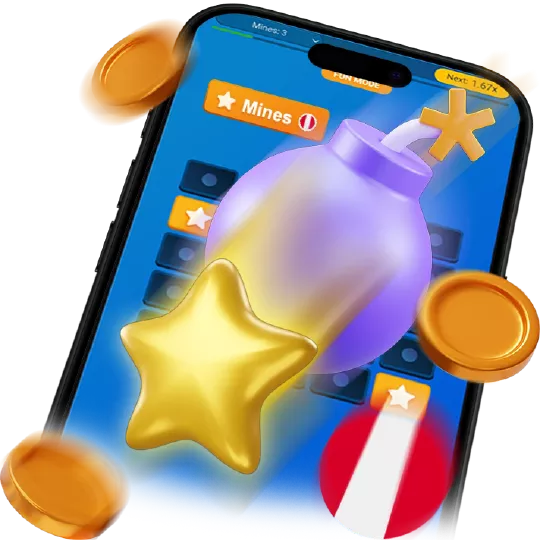
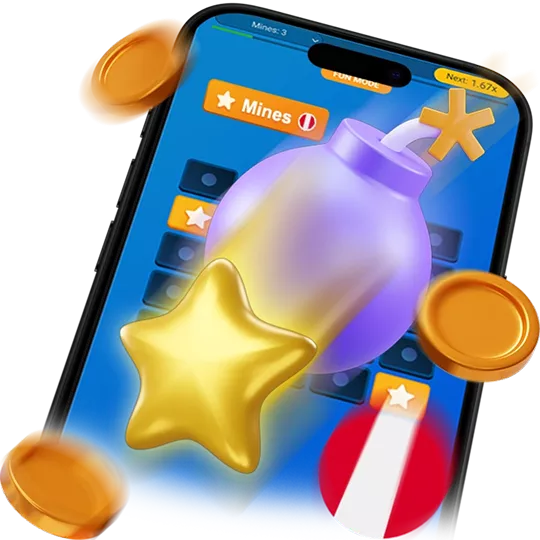
главная картинка

diff --git a/docs/home_mines.html b/docs/home_mines.html
@@ -250,9 +250,9 @@
 						<img 
 							src="img/phones/mines.webp" 
 							srcset="img/phones/mines-300.webp 300w, 
-									img/phones/mines-540.webp 540w, 
+									img/phones/mines-540.webp 540w,
 									img/phones/mines-720.webp 720w"  
-							sizes="(max-width: 992px) 300px, 560px"
+							sizes="(max-width: 992px) 300px, 540px"
 							width="540" height="540" alt="">
 					</div>
 					<div class="firstScreen__bg">

diff --git a/#src/home_mines.html b/#src/home_mines.html
@@ -54,9 +54,9 @@
 						<img 
 							src="img/phones/mines.webp" 
 							srcset="img/phones/mines-300.webp 300w, 
-									img/phones/mines-540.webp 540w, 
+									img/phones/mines-540.webp 540w,
 									img/phones/mines-720.webp 720w"  
-							sizes="(max-width: 992px) 300px, 560px"
+							sizes="(max-width: 992px) 300px, 540px"
 							width="540" height="540" alt="">
 					</div>
 					<div class="firstScreen__bg">
